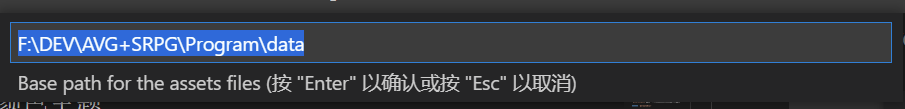
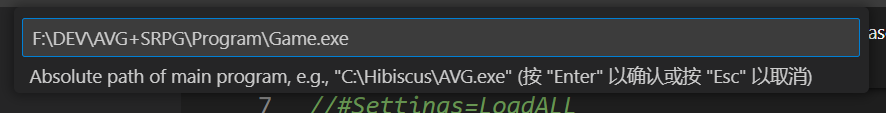
Update doc

diff --git a/Document/Hibiscus AVG Engine V6.0.md b/Document/Hibiscus AVG Engine V6.0.md
@@ -825,6 +825,8 @@ Debug_AVG=Chapter_1
 
 ![StartDebug](media/image5.jpeg)
 
+该调试方法所执行的完整命令行和目标脚本文件会被记录在`Settings.ini`->`Debug`一节中的`CommandLine`和`TargetScript`项
+
 ##### 通过文件关联调试
 
 拖拽调试的本质是解析命令行，因此可以通过配置文件关联来实现快速调试。选中脚本文件，右键点击，选择打开方式，指定为主程序，即可通过双击打开脚本来进行调试。
@@ -832,6 +834,12 @@ Debug_AVG=Chapter_1
 ![File association](media/image6.png)
 
 ##### 使用编辑器调试
+
+###### 自动
+
+若安装了`AvgScript`扩展，**打开需要调试的脚本**，即可在编辑器内按下F5直接启动调试
+
+###### 手动
 
 拖拽调试的本质是解析命令行，因此可以通过配置编辑器来实现快速调试。以VSCode为例，依照范例定义`Launch.json`，将`{Your Project Name}`替换为实际名称，安装[C++扩展集合](https://marketplace.visualstudio.com/items?itemName=ms-vscode.cpptools-extension-pack)，并**打开需要调试的脚本**，即可在编辑器内按下F5直接启动调试
 
@@ -874,9 +882,9 @@ Debug_AVG=Chapter_1
    2. `savings`
       1. `savings\_Global`
          1. `savings\_Global\_GlobalProgress`
-         2. `savings\_GlobalAppreciation_Definition`
-         3. `savings\_GlobalAppreciation_Progress`
-         4. `savings\_GlobalData_Template.sav`
+         2. `savings\_Global\Appreciation_Definition`
+         3. `savings\_Global\Appreciation_Progress`
+         4. `savings\_Global\Data_Template.sav`
       2. `savings\_Sys`
          1. `savings\_Sys\Null.png`
    3. `localization`
@@ -891,7 +899,8 @@ Debug_AVG=Chapter_1
          4. `data\Graphics\_Sys\*.*`
          5. `data\Graphics\CG\*.*`
          6. `data\Graphics\Characters\*.*`
-5. 打包上传
+5. 更新初始鉴赏`Appreciation_Progress`，用于解锁标题画面音乐等正常游玩不会被记录到的文件
+6. 打包上传
 
 ## #系统指令
 
@@ -2907,7 +2916,9 @@ CG/UI不会被销毁
 
 用于转换剧本到导演代码的宏
 
-### VSCode配置
+### VSCode
+
+#### 配置
 
 1.安装[VSCode](https://code.visualstudio.com/)
 
@@ -2931,15 +2942,15 @@ CG/UI不会被销毁
 
 ![OpenWithVSCode](media/image21.png)
 
-7.使用`Ctrl + Shift + P`组合键呼出命令面板，选择`AvgScript Configuration: Base path for the assets files`:
+7.使用`Ctrl + Shift + P`组合键呼出命令面板，选择`AvgScript: Set Base path`:
 
 ![Command](media/image22.png)
 
-输入开发工程中主程序所在文件夹的下一级路径`Data`的完整路径:
+输入开发工程中主程序`Game.exe`的完整路径:
 
 ![BasePath](media/image23.png)
 
-本例中主程序所在文件夹为`F:\DEV\AVG+SRPG\Program`，因此实际输入的路径应为`F:\DEV\AVG+SRPG\Program\data`
+本例中主程序所在文件夹为`F:\DEV\AVG+SRPG\Program`，主程序为`Game.exe`，因此实际输入的路径应为`F:\DEV\AVG+SRPG\Program\Game.exe`
 
 引擎会通过该路径查找资源文件并进行语法提示:
 
@@ -2948,6 +2959,16 @@ CG/UI不会被销毁
 7.开始编辑
 
 ![OpenWithVSCode](media/image25.png)
+
+#### 设置
+
+##### 命令扩展
+
+插件仅包含了本文档中的指令，若在二次开发中扩展了自己的指令，可以通过编辑设置来指定这些指令的语法提示
+
+##### 脚本生成
+
+通过指定一组按顺序调用的正则表达式，通过替换从原始文本生成基础脚本，如通过编剧的演出提示替换为对应的指令
 
 ### AVG状态阶段
 
